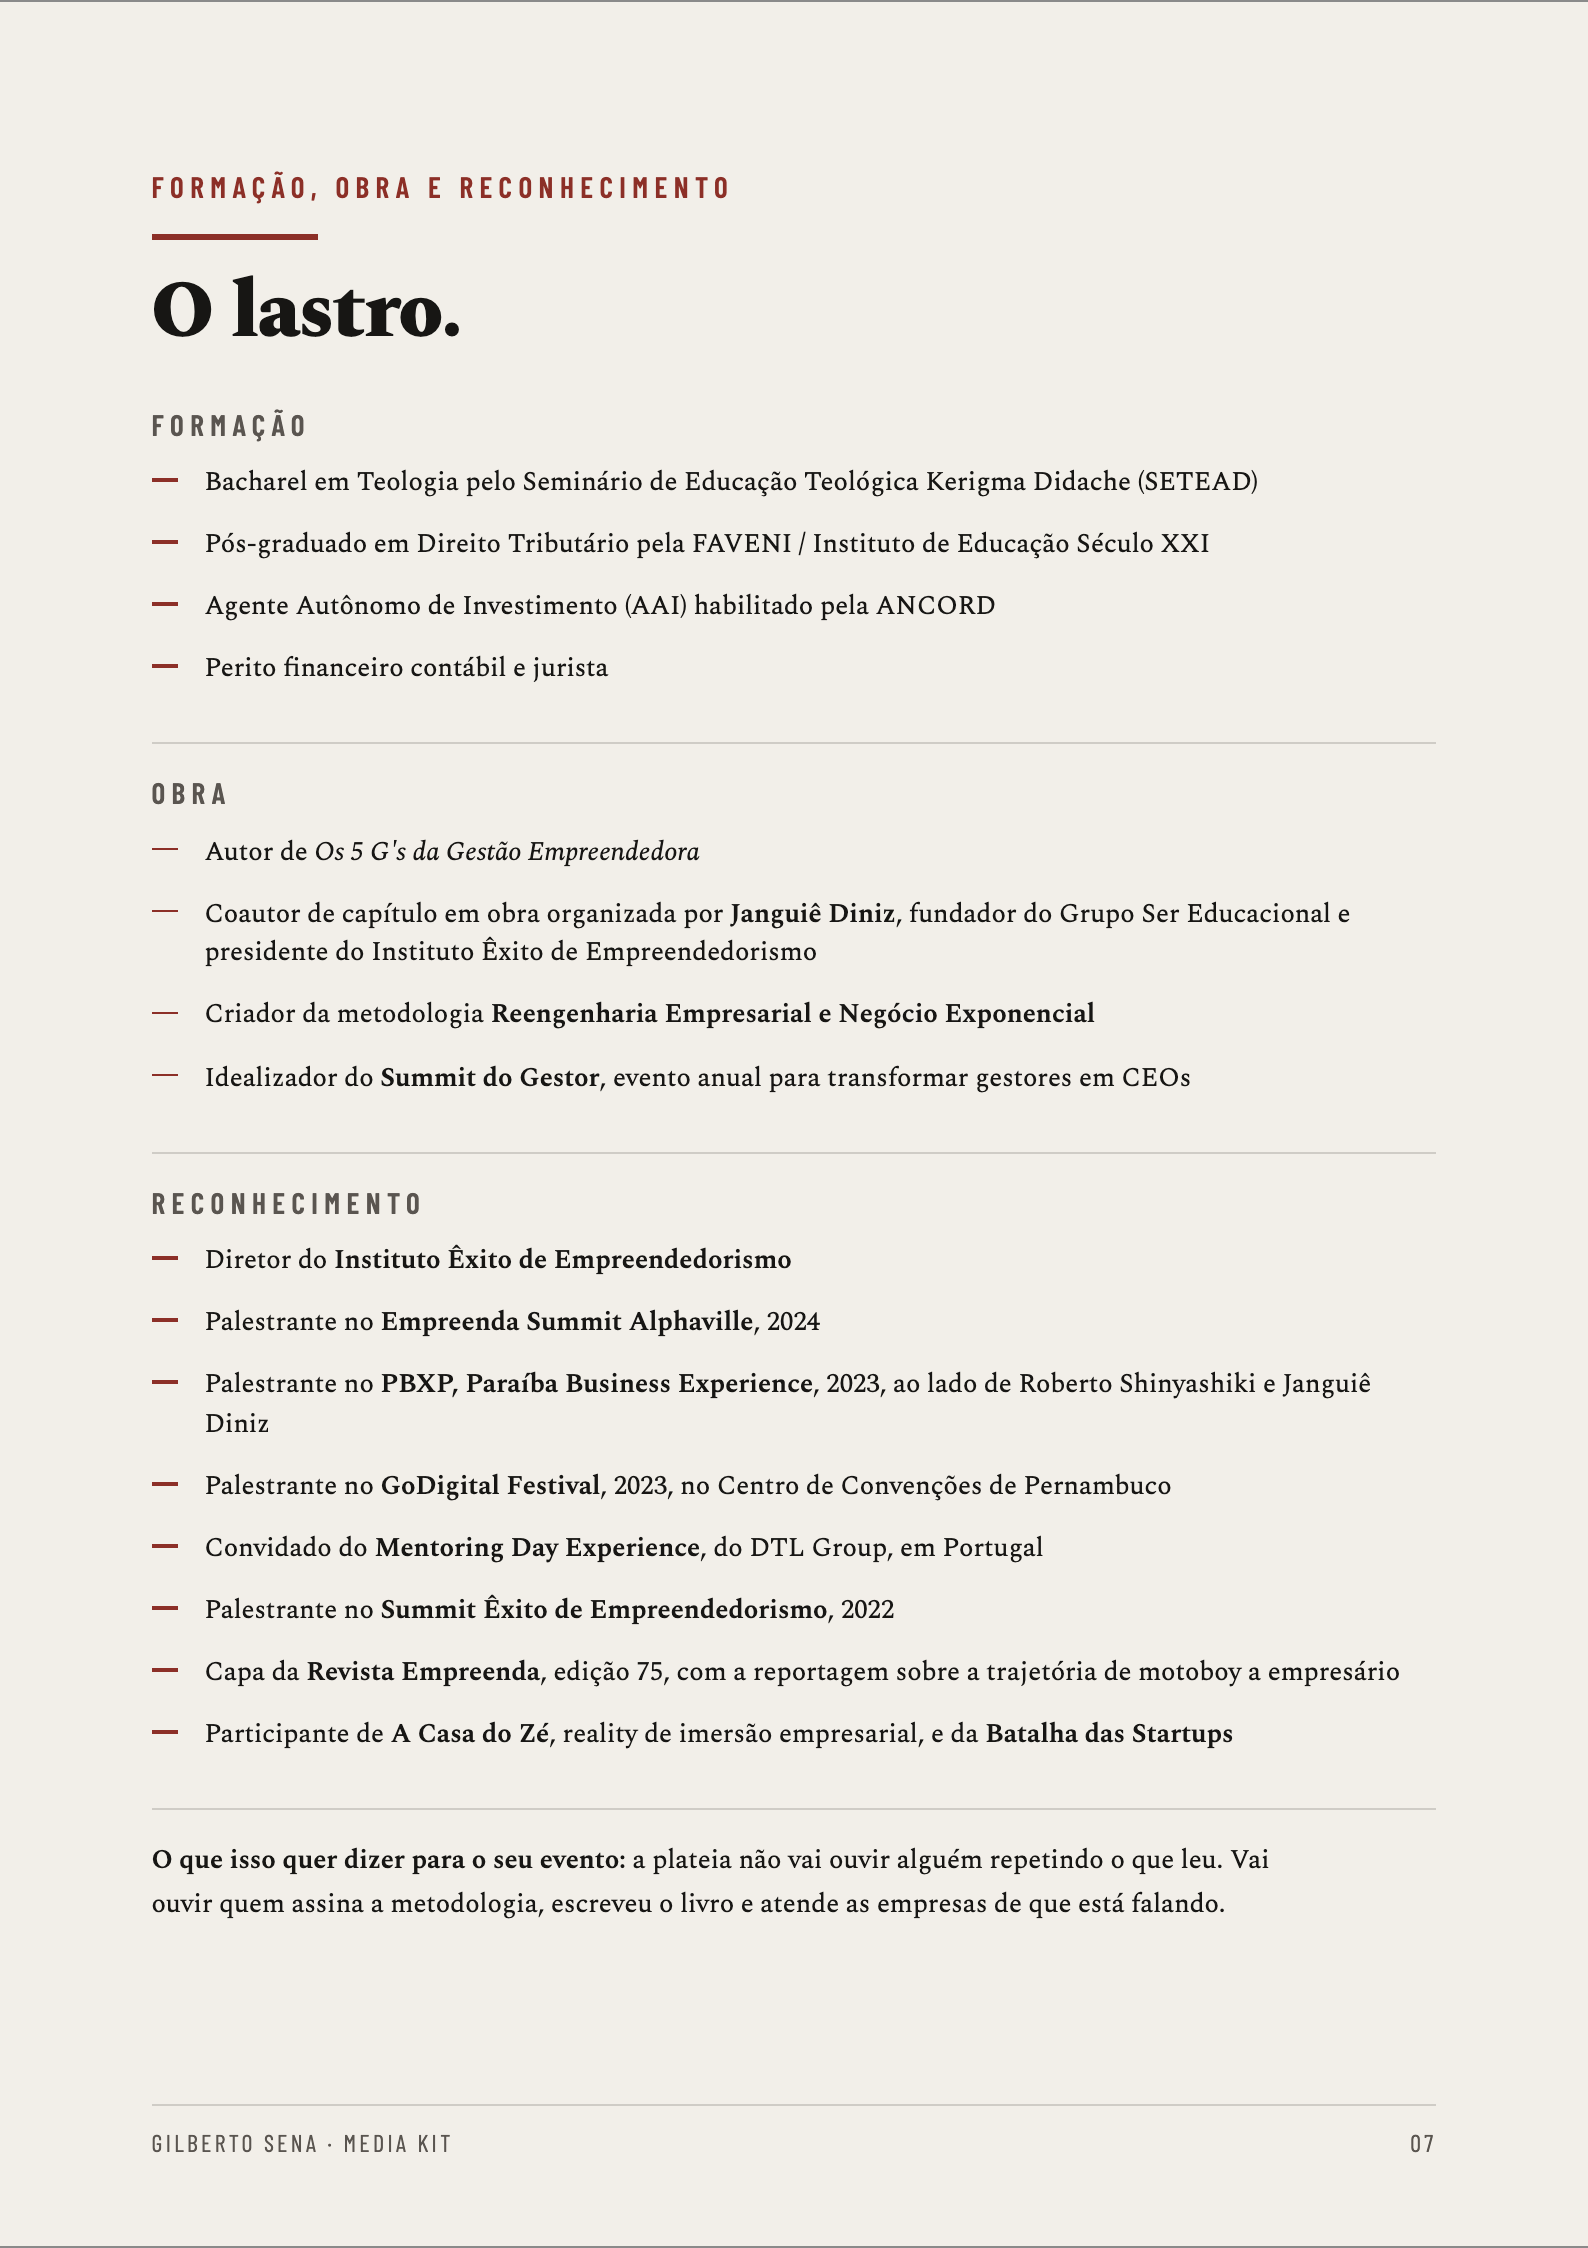
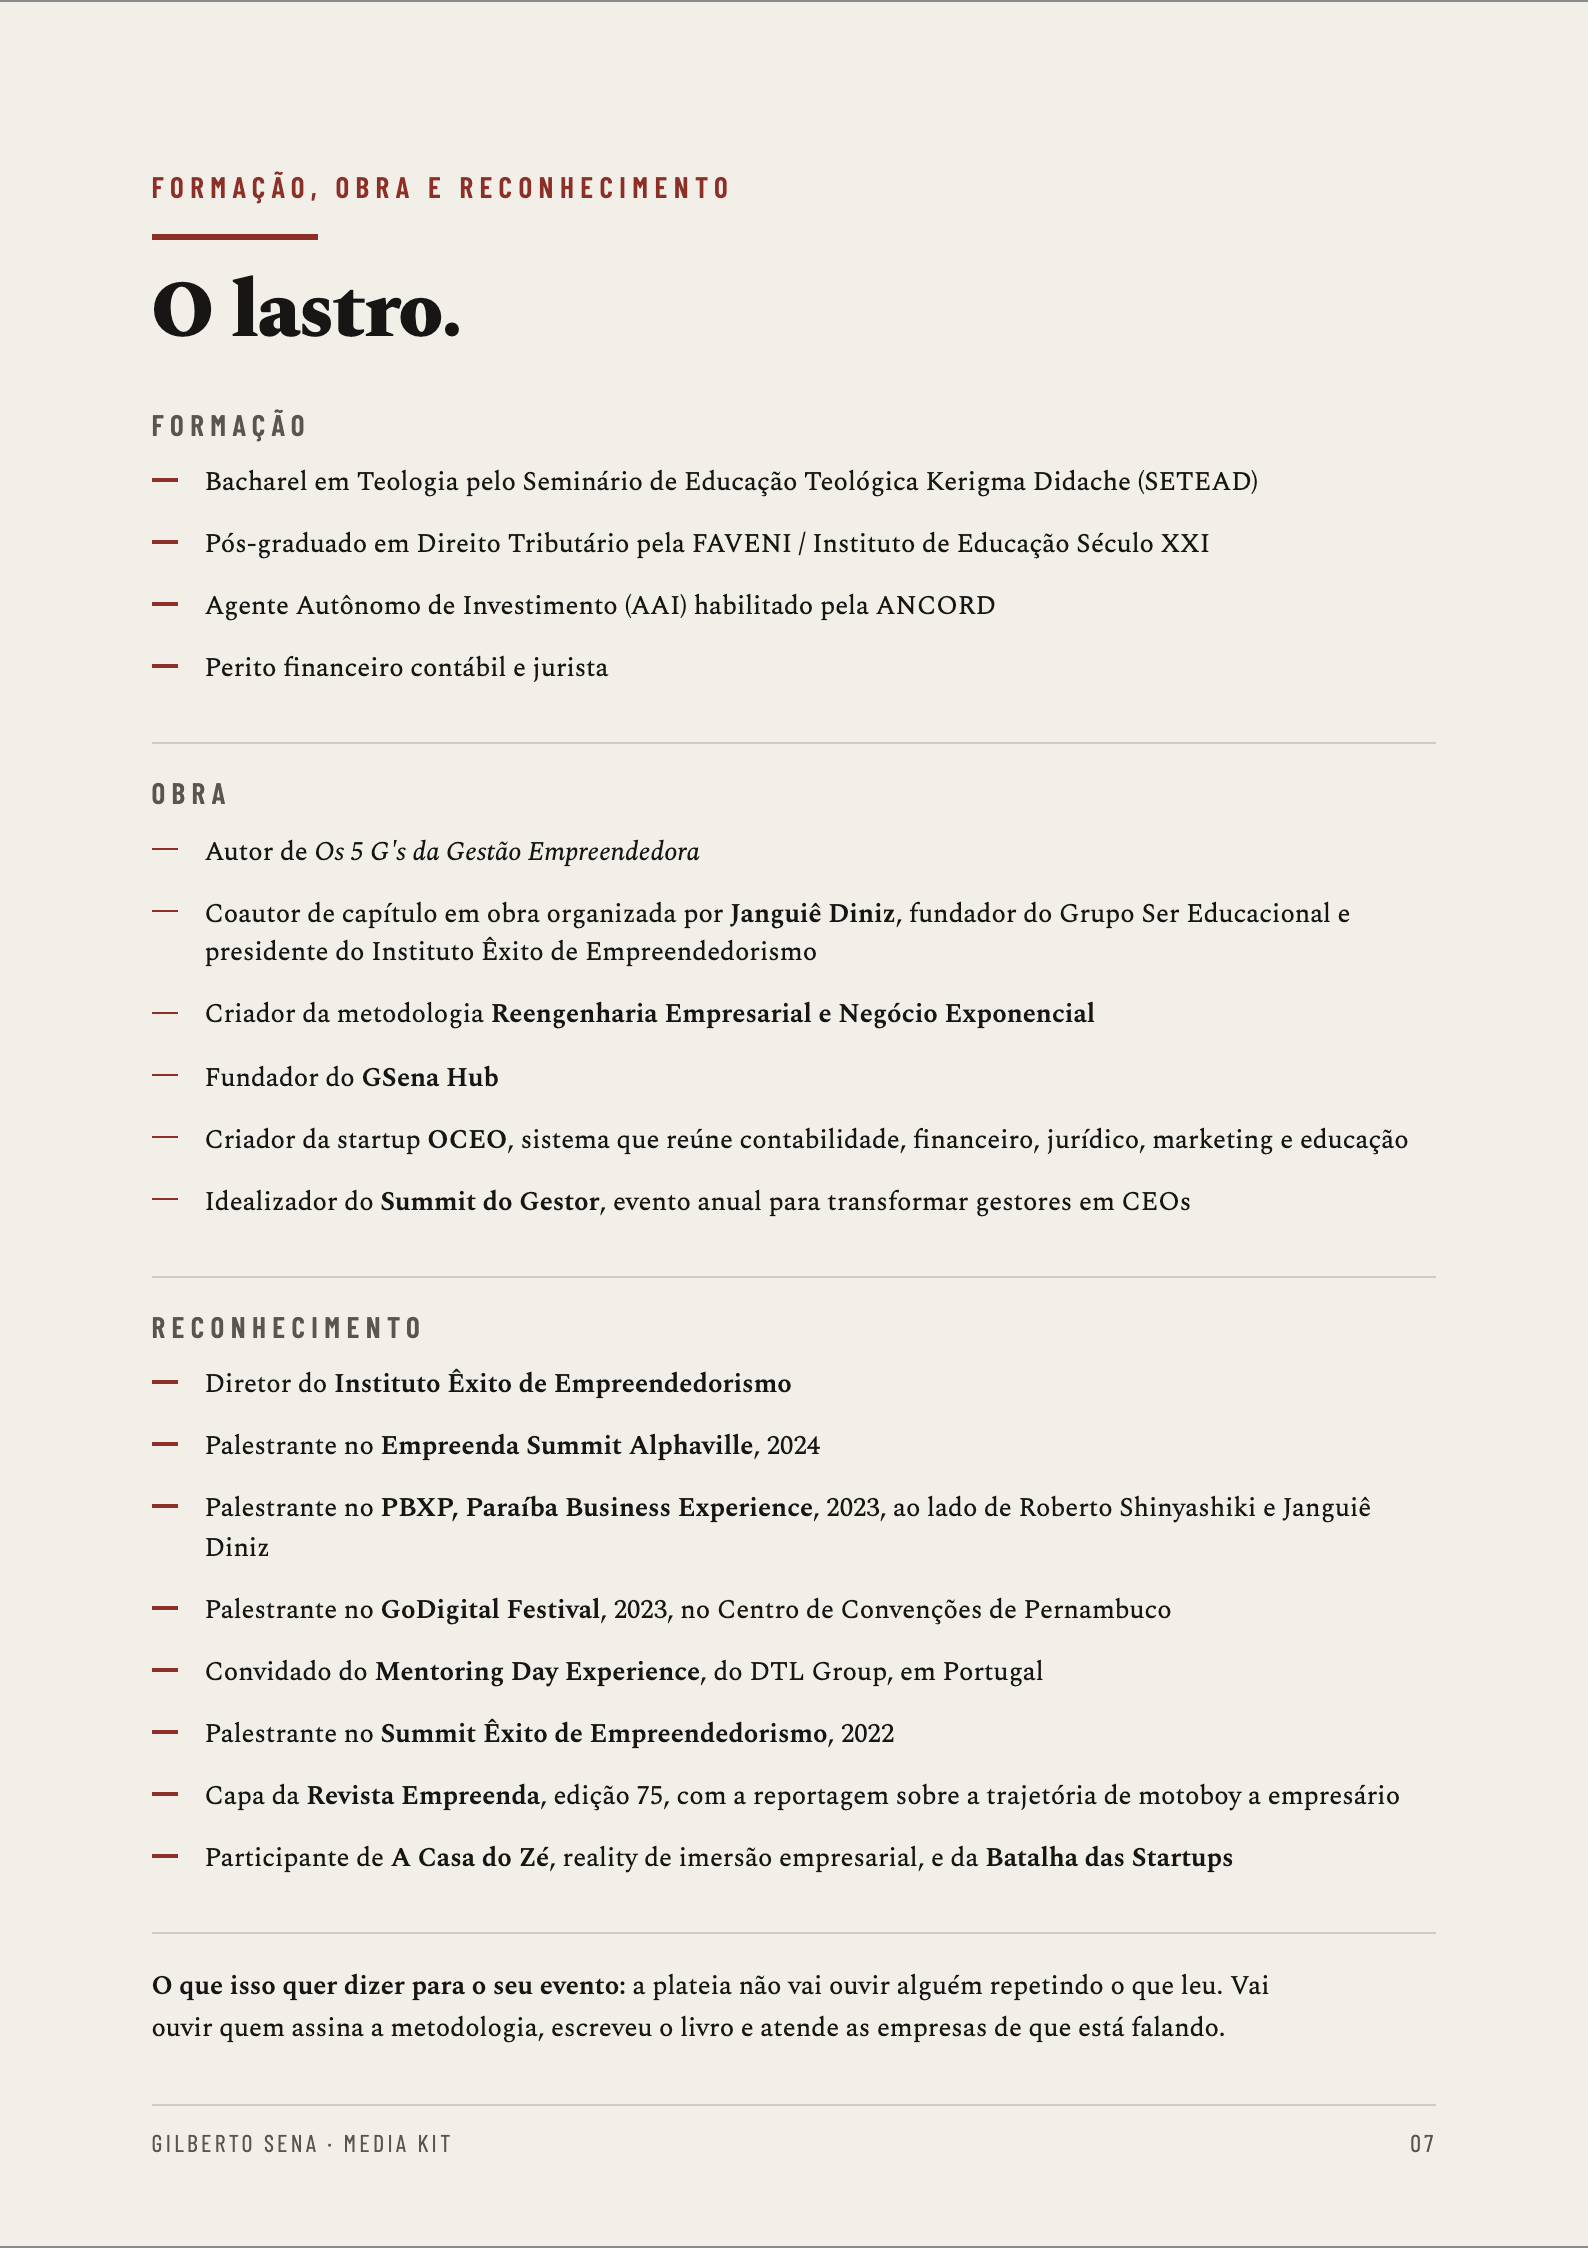
Sede em Sao Paulo, mais GSena Hub e OCEO no media kit
Ele corrigiu a estrutura do grupo e mandou acrescentar dois projetos.

CIDADES: sede em Sao Paulo, com escritorios no Rio de Janeiro, em Goiania e
em Belo Horizonte. Brasilia saiu, e o contador de escritorios foi de 5 pra 4.
Isso resolve a divergencia que eu tinha levantado entre o repositorio e o
site, que listava Parauapebas e Vitoria.

GSENA HUB e OCEO entraram na bio da pagina 2 e na lista de obra da pagina 7.
A descricao do OCEO veio do carrossel "quem e Gilberto", nas palavras dele:
startup que reune contabilidade, financeiro, juridico, marketing e educacao
num sistema so.

diff --git a/saidas/NEGOCIOS-E-MARCA/media-kit-palestrante-2026-10-14/media-kit.html b/saidas/NEGOCIOS-E-MARCA/media-kit-palestrante-2026-10-14/media-kit.html
@@ -202,13 +202,15 @@ em{font-style:italic}
 
   <p class="corpo">Gilberto Luís de Sena é fundador e CEO do <b>Grupo Sena Soluções
   Empresariais</b>, que estrutura negócios com contabilidade, auditoria fiscal e
-  tributária, assessoria jurídica e gestão financeira. Sede em Belo Horizonte e
-  atuação em Goiânia, São Paulo, Brasília e Rio de Janeiro.</p>
+  tributária, assessoria jurídica e gestão financeira. Sede em São Paulo, com
+  escritórios no Rio de Janeiro, em Goiânia e em Belo Horizonte.</p>
 
   <p class="corpo">É bacharel em Teologia pelo SETEAD, pós-graduado em Direito
   Tributário pela FAVENI e Agente Autônomo de Investimento habilitado
   pela ANCORD. Autor de <em>Os 5 G's da Gestão Empreendedora</em> e criador da
-  <b>Reengenharia Empresarial</b>, metodologia própria de reestruturação de negócios.</p>
+  <b>Reengenharia Empresarial</b>, metodologia própria de reestruturação de
+  negócios. É fundador do <b>GSena Hub</b> e criador do <b>OCEO</b>, startup que
+  reúne contabilidade, financeiro, jurídico, marketing e educação num sistema só.</p>
 
   <p class="corpo">Antes de abrir a própria empresa, passou dez anos como executivo
   em três multinacionais de telecomunicações. Antes disso, foi servente de pedreiro,
@@ -221,7 +223,7 @@ em{font-style:italic}
     <div class="num"><div class="n">+15 anos</div><div class="t">dentro de empresas, resolvendo o que trava o crescimento</div></div>
     <div class="num"><div class="n">+500</div><div class="t">empresas e empresários orientados</div></div>
     <div class="num"><div class="n">R$ 500 mi</div><div class="t">economizados em impostos pelos clientes que ele atendeu</div></div>
-    <div class="num"><div class="n">5</div><div class="t">escritórios do Grupo Sena em operação no Brasil</div></div>
+    <div class="num"><div class="n">4</div><div class="t">escritórios do Grupo Sena em operação no Brasil</div></div>
   </div>
 
 
@@ -411,6 +413,8 @@ em{font-style:italic}
     <li>Autor de <em>Os 5 G's da Gestão Empreendedora</em></li>
     <li>Coautor de capítulo em obra organizada por <b>Janguiê Diniz</b>, fundador do Grupo Ser Educacional e presidente do Instituto Êxito de Empreendedorismo</li>
     <li>Criador da metodologia <b>Reengenharia Empresarial e Negócio Exponencial</b></li>
+    <li>Fundador do <b>GSena Hub</b></li>
+    <li>Criador da startup <b>OCEO</b>, sistema que reúne contabilidade, financeiro, jurídico, marketing e educação</li>
     <li>Idealizador do <b>Summit do Gestor</b>, evento anual para transformar gestores em CEOs</li>
   </ul>
 
@@ -462,7 +466,7 @@ em{font-style:italic}
   <div style="height:auto;flex:1"></div>
 
   <p class="fino" style="max-width:150mm">Grupo Sena Soluções Empresariais ·
-  Belo Horizonte · Goiânia · São Paulo · Brasília · Rio de Janeiro</p>
+  São Paulo · Rio de Janeiro · Goiânia · Belo Horizonte</p>
 
   <div class="rodape"><span>Gilberto Sena · Media Kit · 2026</span><span>08</span></div>
 </section>
